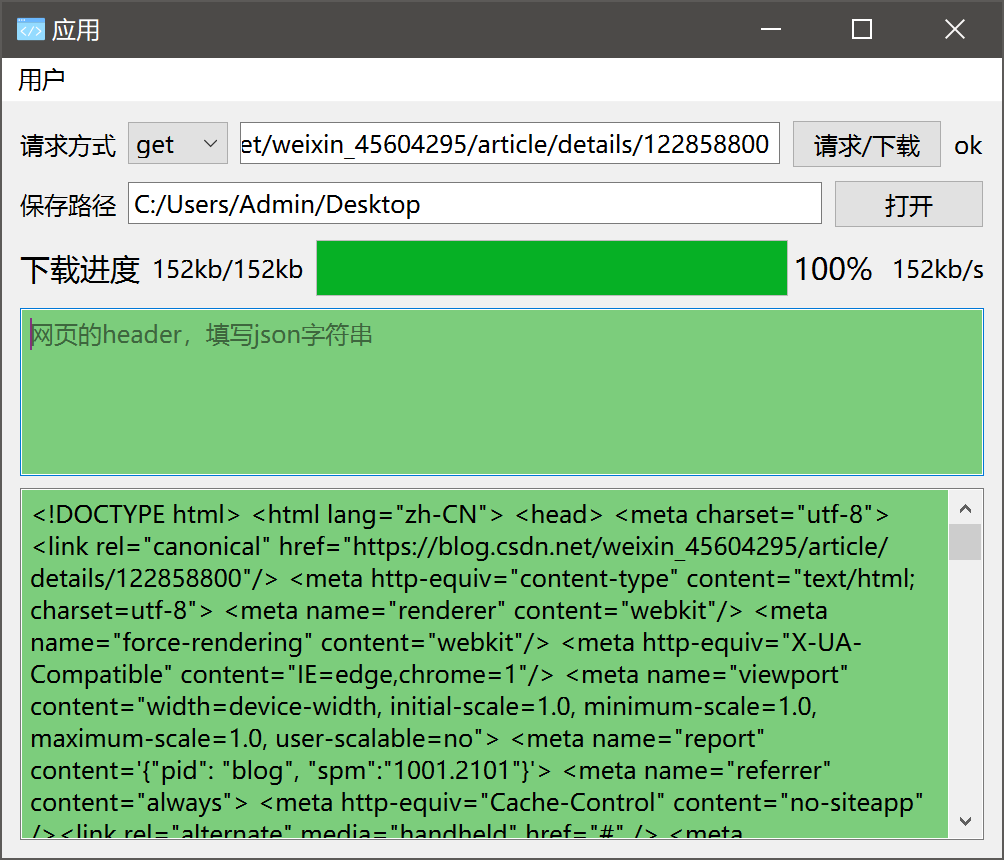
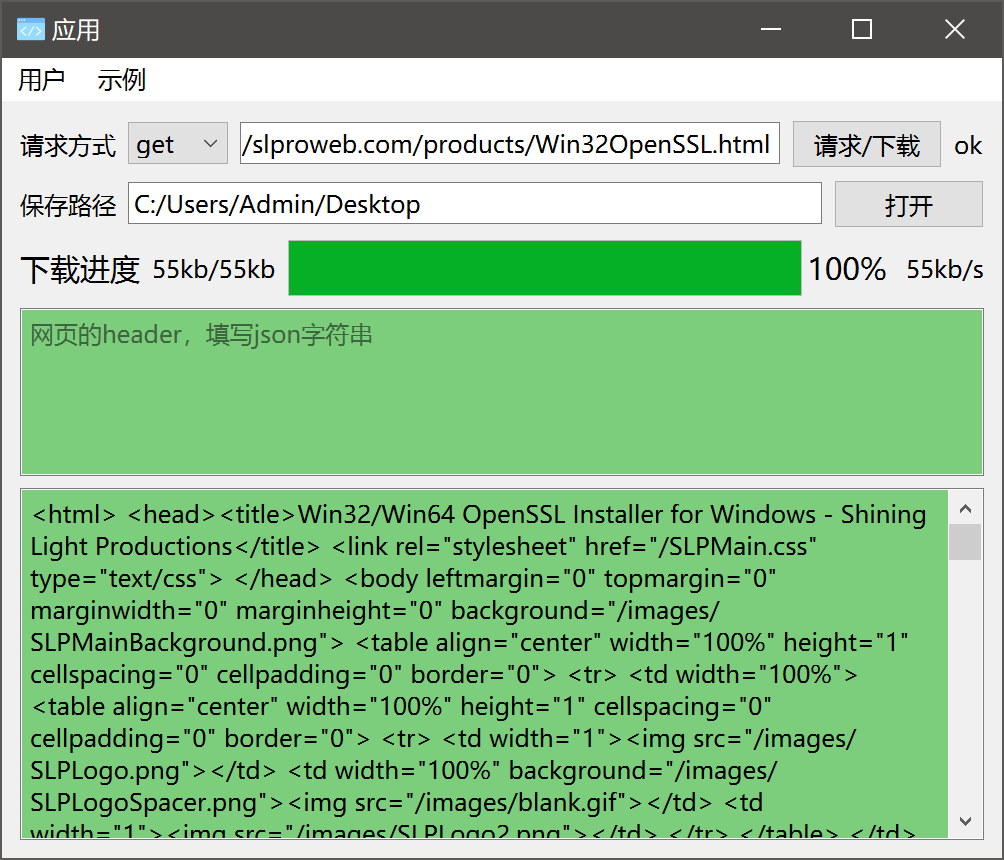
添加示例：请求网页下载文件并显示进度

diff --git a/src/mainwindow.cpp b/src/mainwindow.cpp
@@ -12,12 +12,10 @@ MainWindow::MainWindow(QWidget *parent) :
         QMainWindow(parent), ui(new Ui::MainWindow) {
     ui->setupUi(this);
 
-    this->main_widget = new LearnNetworkWidget();
-    this->clear_and_add_main_widget(this->main_widget);
-
     //连接action与函数的信号槽
     connect(ui->actionlogin, &QAction::triggered, this, &MainWindow::action_login_clicked);
     connect(ui->actionlogout, &QAction::triggered, this, &MainWindow::action_logout_clicked);
+    connect(ui->actionrequest_example, &QAction::triggered, this, &MainWindow::action_request_example_clicked);
 }
 
 MainWindow::~MainWindow() {
@@ -45,6 +43,11 @@ void MainWindow::action_login_clicked() {
 void MainWindow::action_logout_clicked() {
     this->change_window_title(nullptr);
     this->main_widget = new LoginWidget();
+    this->clear_and_add_main_widget(this->main_widget);
+}
+
+void MainWindow::action_request_example_clicked() {
+    this->main_widget = new LearnNetworkWidget();
     this->clear_and_add_main_widget(this->main_widget);
 }
 

diff --git a/src/Headers/mainwindow.h b/src/Headers/mainwindow.h
@@ -25,6 +25,8 @@ public:
 
     void action_logout_clicked();
 
+    void action_request_example_clicked();
+
     void change_window_title(const QString& add_something);
 private:
     Ui::MainWindow *ui;
